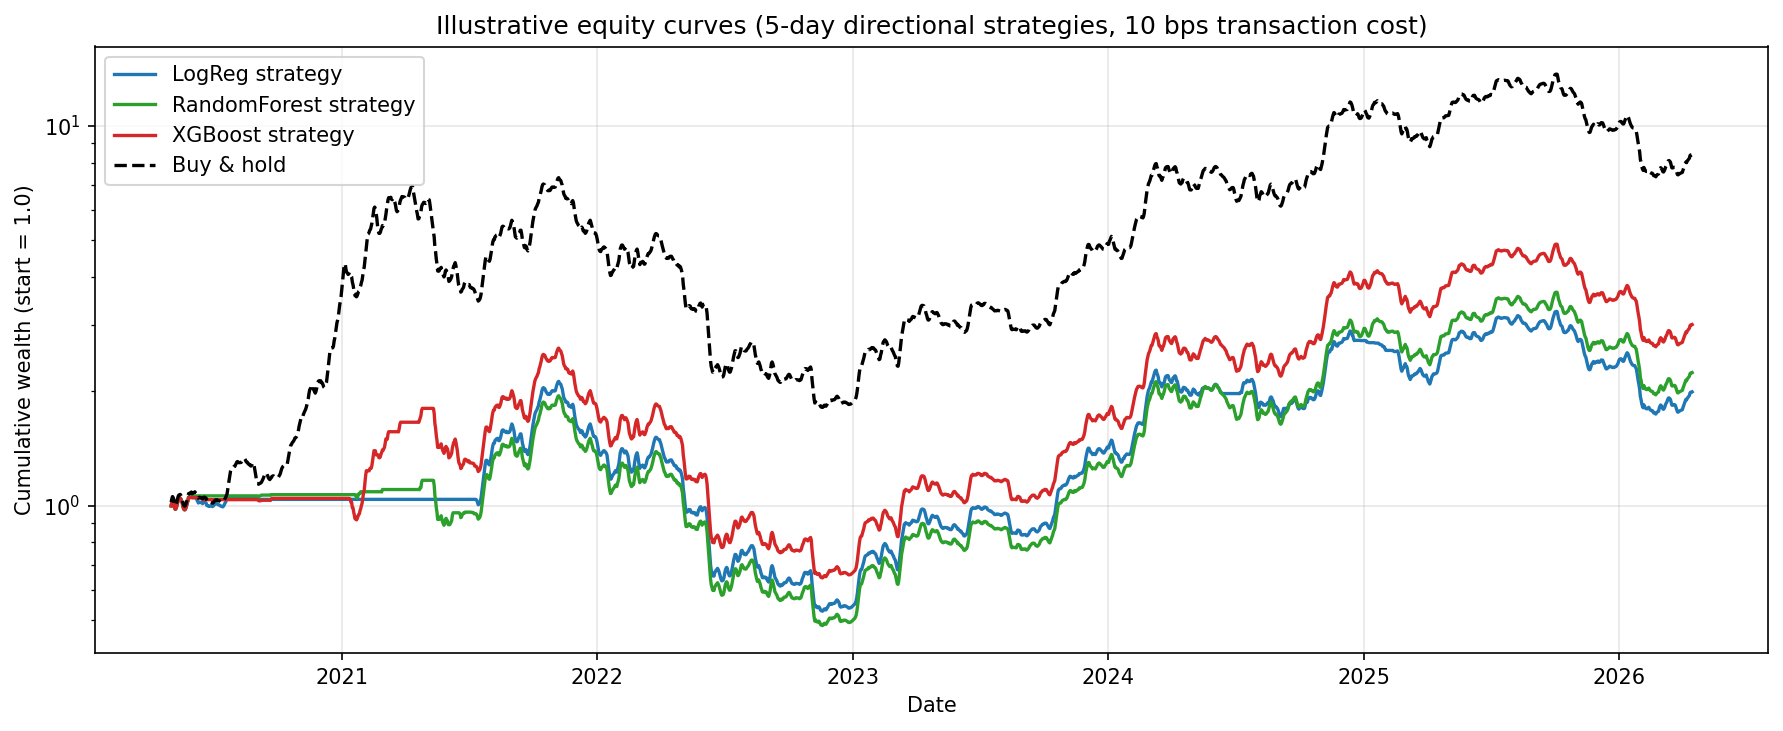
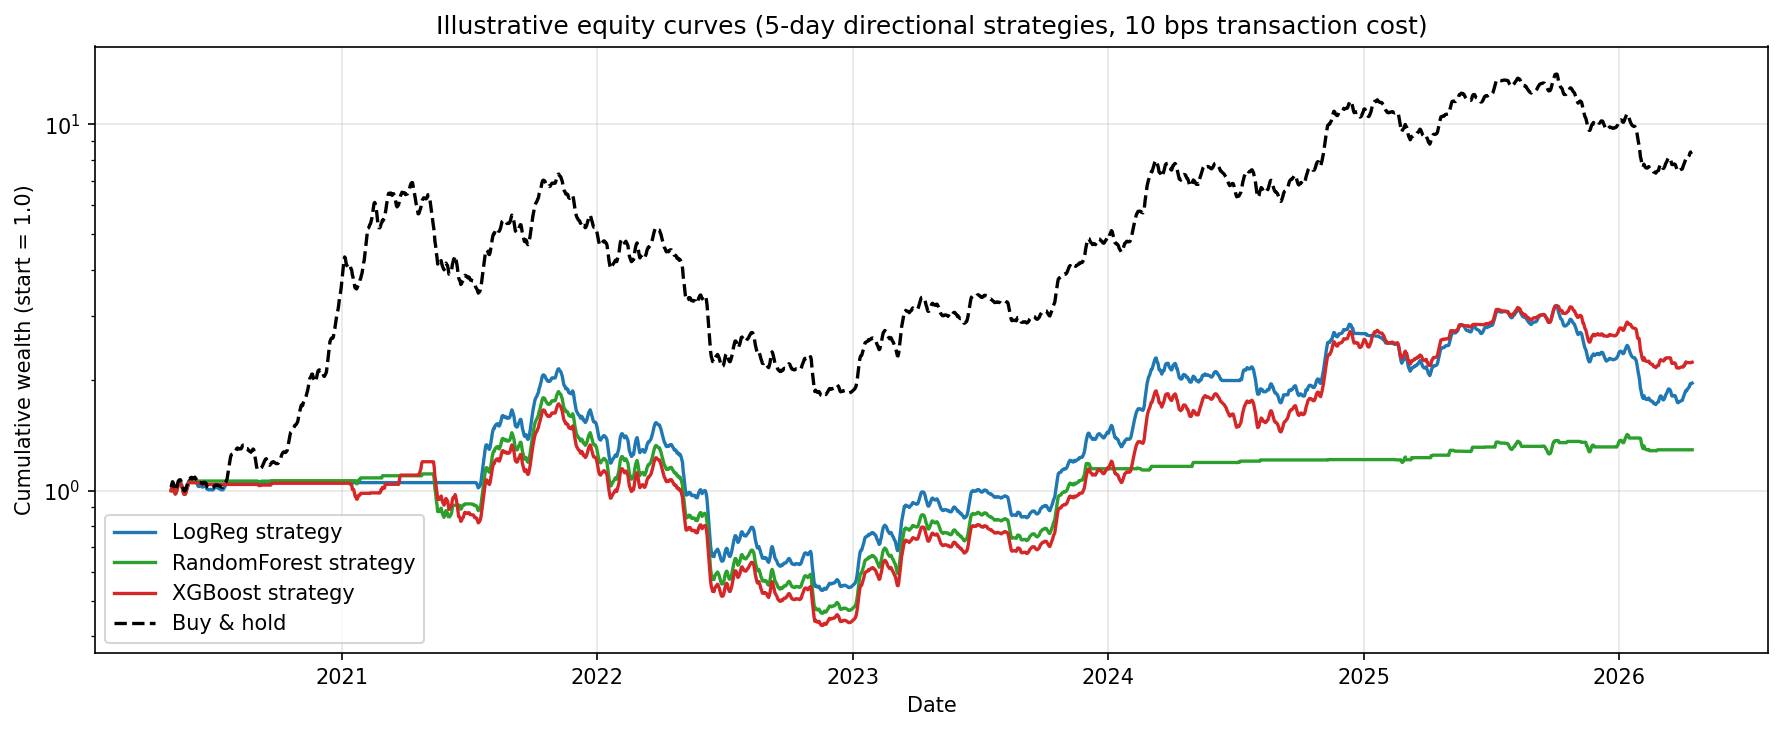
Fix threshold tuning data snooping: per-fold internal-validation selection

diff --git a/evaluation/calibration.py b/evaluation/calibration.py
@@ -11,14 +11,19 @@ walk_forward_evaluate (see evaluation/walk_forward.py):
        approximates monotonic-but-flexible mapping from raw probabilities
        to actual frequencies of the positive class.
 
-    2. Decision-threshold tuning. The default 0.5 threshold is rarely
-       optimal in finance — Jansen (Ch. 6) recommends treating it as a
-       hyperparameter optimised on validation data. We sweep thresholds in
-       [0.30, 0.70] in steps of 0.01 and pick the one maximising F1 on
-       each fold's validation half.
+    2. Decision-threshold tuning WITHOUT test-set leakage. Inside every
+       walk-forward fold we carve an internal validation slice from the last
+       INNER_VAL_FRACTION (20%) of that fold's TRAINING window, fit a separate
+       model on the remaining 80%, and pick the threshold in [0.30, 0.70]
+       (step 0.01) that maximises F1 on that internal validation slice only.
+       The selected threshold is then applied to the fold's TEST predictions.
+       Per-fold test predictions are aggregated before scoring; the test set
+       is NEVER used to choose the threshold. The `threshold` column in the
+       summary holds the mean of the five per-fold thresholds.
 
 Output:
     evaluation/results/calibration_summary.csv   — before/after metrics per model
+    evaluation/results/calibration_thresholds_per_fold.csv — per-fold thresholds (raw & cal)
     evaluation/figures/figure_calibration_curves.png   — reliability diagrams
     evaluation/figures/figure_threshold_tuning.png     — F1 vs threshold curves
 
@@ -59,6 +64,7 @@ FEATURE_COLUMNS = [
 
 N_SPLITS = 5
 THRESHOLDS = np.linspace(0.30, 0.70, 41)  # step 0.01
+INNER_VAL_FRACTION = 0.2  # last 20% of each fold's TRAIN window = internal validation
 
 # Models to calibrate. Persistence baselines are skipped — they return
 # degenerate pseudo-probabilities and calibration would be meaningless.
@@ -75,43 +81,82 @@ def _calibrated_walk_forward(
     X: pd.DataFrame,
     y: pd.Series,
     n_splits: int = N_SPLITS,
+    inner_val_fraction: float = INNER_VAL_FRACTION,
 ):
     """
-    Run walk-forward evaluation with isotonic calibration applied INSIDE
-    each fold. Returns three concatenated arrays:
-        y_true_all      ground truth, in chronological order
-        proba_raw_all   probabilities from the un-calibrated base estimator
-        proba_cal_all   probabilities from the isotonic-calibrated wrapper
+    Walk-forward with isotonic calibration applied INSIDE each fold, plus
+    per-fold decision-threshold selection that NEVER touches the test set.
+
+    Per fold:
+      1. Fit raw and isotonic-calibrated models on the FULL training window and
+         score the test set -> proba_raw / proba_cal (the out-of-fold
+         probabilities used everywhere downstream; unchanged from before).
+      2. Carve an internal validation slice = last `inner_val_fraction` of the
+         TRAIN rows (chronological). Fit a SEPARATE model on the earlier part,
+         score the validation slice, and pick the F1-optimal threshold there.
+      3. Apply that fold's validation threshold to this fold's TEST scores.
+
+    Returns a dict of chronologically-concatenated TEST arrays plus the list of
+    per-fold thresholds (raw and calibrated):
+        y_true, proba_raw, proba_cal, y_pred_raw_tuned, y_pred_cal_tuned,
+        thr_raw_per_fold, thr_cal_per_fold.
     """
     splitter = TimeSeriesSplit(n_splits=n_splits)
 
     y_true_parts, proba_raw_parts, proba_cal_parts = [], [], []
+    pred_raw_tuned_parts, pred_cal_tuned_parts = [], []
+    thr_raw_per_fold, thr_cal_per_fold = [], []
 
     for fold, (train_idx, test_idx) in enumerate(splitter.split(X), start=1):
         X_tr, X_te = X.iloc[train_idx], X.iloc[test_idx]
         y_tr, y_te = y.iloc[train_idx], y.iloc[test_idx]
 
-        # Raw model
+        # (1) Models trained on the FULL training window -> test scores.
+        # IMPORTANT: pass a fresh clone to the calibrator, otherwise
+        # CalibratedClassifierCV refits state of an already-fitted pipeline.
         raw_model = base_factory()
         raw_model.fit(X_tr, y_tr)
         proba_raw = raw_model.predict_proba(X_te)[:, 1]
 
-        # Calibrated model — IMPORTANT: pass a fresh clone, otherwise
-        # CalibratedClassifierCV refits state of an already-fitted pipeline.
         cal_base = base_factory()
         cal_model = CalibratedClassifierCV(cal_base, method="isotonic", cv=3)
         cal_model.fit(X_tr, y_tr)
         proba_cal = cal_model.predict_proba(X_te)[:, 1]
 
+        # (2) Internal validation = last fraction of TRAIN only (chronological).
+        # Earliest rows train the threshold-selection model, latest rows are the
+        # held-out validation slice on which the threshold is chosen.
+        n_tr = len(X_tr)
+        cut = int(round(n_tr * (1.0 - inner_val_fraction)))
+        X_in_tr, X_in_val = X_tr.iloc[:cut], X_tr.iloc[cut:]
+        y_in_tr, y_in_val = y_tr.iloc[:cut], y_tr.iloc[cut:]
+
+        thr_raw = _tune_threshold_on_validation(
+            base_factory, X_in_tr, y_in_tr, X_in_val, y_in_val, calibrated=False
+        )
+        thr_cal = _tune_threshold_on_validation(
+            base_factory, X_in_tr, y_in_tr, X_in_val, y_in_val, calibrated=True
+        )
+
+        # (3) Apply the validation-selected thresholds to this fold's TEST scores.
+        pred_raw_tuned_parts.append((proba_raw > thr_raw).astype(int))
+        pred_cal_tuned_parts.append((proba_cal > thr_cal).astype(int))
+        thr_raw_per_fold.append(thr_raw)
+        thr_cal_per_fold.append(thr_cal)
+
         y_true_parts.append(y_te.values)
         proba_raw_parts.append(proba_raw)
         proba_cal_parts.append(proba_cal)
 
-    return (
-        np.concatenate(y_true_parts),
-        np.concatenate(proba_raw_parts),
-        np.concatenate(proba_cal_parts),
-    )
+    return {
+        "y_true": np.concatenate(y_true_parts),
+        "proba_raw": np.concatenate(proba_raw_parts),
+        "proba_cal": np.concatenate(proba_cal_parts),
+        "y_pred_raw_tuned": np.concatenate(pred_raw_tuned_parts),
+        "y_pred_cal_tuned": np.concatenate(pred_cal_tuned_parts),
+        "thr_raw_per_fold": thr_raw_per_fold,
+        "thr_cal_per_fold": thr_cal_per_fold,
+    }
 
 
 def _tune_threshold(y_true: np.ndarray, y_proba: np.ndarray) -> tuple[float, float]:
@@ -130,6 +175,46 @@ def _safe_metrics(y_true, y_proba, threshold) -> dict:
     proba_clipped = np.clip(y_proba, 1e-7, 1 - 1e-7)
     return {
         "threshold": threshold,
+        "f1": f1_score(y_true, y_pred, zero_division=0),
+        "roc_auc": roc_auc_score(y_true, y_proba),
+        "log_loss": log_loss(y_true, proba_clipped, labels=[0, 1]),
+    }
+
+
+def _tune_threshold_on_validation(
+    base_factory, X_in_tr, y_in_tr, X_in_val, y_in_val, calibrated: bool,
+) -> float:
+    """
+    Select a threshold WITHOUT seeing the test set: fit a model on the
+    inner-training rows only, score the inner-validation rows, and return the
+    F1-optimal threshold in THRESHOLDS. For the calibrated variant the same
+    isotonic wrapper as the main pipeline is used, so the threshold is chosen
+    on calibrated scores. Falls back to 0.5 when the validation slice is too
+    small or single-class (an F1-optimal threshold would be meaningless).
+    """
+    y_val = np.asarray(y_in_val)
+    if len(y_val) < 10 or len(np.unique(y_val)) < 2:
+        return 0.5
+    model = base_factory()
+    if calibrated:
+        model = CalibratedClassifierCV(model, method="isotonic", cv=3)
+    model.fit(X_in_tr, y_in_tr)
+    proba_val = model.predict_proba(X_in_val)[:, 1]
+    thr, _ = _tune_threshold(y_val, proba_val)
+    return thr
+
+
+def _tuned_metrics(y_true, y_proba, y_pred, reported_threshold) -> dict:
+    """
+    Headline metrics for a tuned variant. `y_pred` was produced per fold using
+    each fold's validation-selected threshold; `reported_threshold` is the mean
+    of those per-fold thresholds, stored for the summary only. ROC-AUC and
+    log-loss are threshold-independent, hence identical to the default variant.
+    Keys match _safe_metrics so the CSV schema is unchanged.
+    """
+    proba_clipped = np.clip(y_proba, 1e-7, 1 - 1e-7)
+    return {
+        "threshold": reported_threshold,
         "f1": f1_score(y_true, y_pred, zero_division=0),
         "roc_auc": roc_auc_score(y_true, y_proba),
         "log_loss": log_loss(y_true, proba_clipped, labels=[0, 1]),
@@ -159,17 +244,24 @@ def main() -> None:
         print(f"Calibration + threshold tuning: {name}")
         print("=" * 72)
 
-        y_true, proba_raw, proba_cal = _calibrated_walk_forward(factory, X, y)
+        wf = _calibrated_walk_forward(factory, X, y)
+        y_true = wf["y_true"]
+        proba_raw = wf["proba_raw"]
+        proba_cal = wf["proba_cal"]
 
-        # Default threshold (0.5)
+        # Default threshold (0.5) — unchanged baseline.
         m_raw_default = _safe_metrics(y_true, proba_raw, threshold=0.5)
         m_cal_default = _safe_metrics(y_true, proba_cal, threshold=0.5)
 
-        # Tuned threshold (per probability source)
-        thr_raw, _ = _tune_threshold(y_true, proba_raw)
-        thr_cal, _ = _tune_threshold(y_true, proba_cal)
-        m_raw_tuned = _safe_metrics(y_true, proba_raw, threshold=thr_raw)
-        m_cal_tuned = _safe_metrics(y_true, proba_cal, threshold=thr_cal)
+        # Tuned: thresholds were chosen per fold on that fold's internal
+        # validation slice (never the test set) and already applied to the
+        # fold's test predictions inside _calibrated_walk_forward. We report the
+        # mean per-fold threshold; F1 is computed on the aggregated test
+        # predictions. ROC-AUC / log-loss are threshold-free -> equal default.
+        thr_raw = round(float(np.mean(wf["thr_raw_per_fold"])), 3)
+        thr_cal = round(float(np.mean(wf["thr_cal_per_fold"])), 3)
+        m_raw_tuned = _tuned_metrics(y_true, proba_raw, wf["y_pred_raw_tuned"], thr_raw)
+        m_cal_tuned = _tuned_metrics(y_true, proba_cal, wf["y_pred_cal_tuned"], thr_cal)
 
         # Console output
         print(f"  RAW (uncalibrated):")
@@ -186,6 +278,11 @@ def main() -> None:
         print(f"    tuned   thr={thr_cal:.2f}  F1={m_cal_tuned['f1']:.4f}  "
               f"AUC={m_cal_tuned['roc_auc']:.4f}  "
               f"logloss={m_cal_tuned['log_loss']:.4f}")
+        print(
+            f"    per-fold thresholds  "
+            f"raw={[round(t, 3) for t in wf['thr_raw_per_fold']]}  "
+            f"cal={[round(t, 3) for t in wf['thr_cal_per_fold']]}"
+        )
 
         for label, m in (
             ("raw_default", m_raw_default),
@@ -201,6 +298,8 @@ def main() -> None:
             "proba_cal": proba_cal,
             "thr_raw": thr_raw,
             "thr_cal": thr_cal,
+            "thr_raw_per_fold": wf["thr_raw_per_fold"],
+            "thr_cal_per_fold": wf["thr_cal_per_fold"],
         }
 
     # -------------------------------------------------------------------------
@@ -210,6 +309,22 @@ def main() -> None:
     summary_df.to_csv(summary_path, index=False)
     print(f"\nsaved -> {summary_path}")
     print(summary_df.round(4).to_string(index=False))
+
+    # -------------------------------------------------------------------------
+    # Per-fold thresholds (transparency). Each threshold was selected on that
+    # fold's internal validation split, never the test set. One row per
+    # (model, source, fold); does not alter the calibration_summary schema.
+    per_fold_rows: list[dict] = []
+    for name, d in calibration_data.items():
+        for fold_i, t in enumerate(d["thr_raw_per_fold"], start=1):
+            per_fold_rows.append({"model": name, "source": "raw",
+                                  "fold": fold_i, "threshold": round(float(t), 2)})
+        for fold_i, t in enumerate(d["thr_cal_per_fold"], start=1):
+            per_fold_rows.append({"model": name, "source": "cal",
+                                  "fold": fold_i, "threshold": round(float(t), 2)})
+    per_fold_path = RESULTS_DIR / "calibration_thresholds_per_fold.csv"
+    pd.DataFrame(per_fold_rows).to_csv(per_fold_path, index=False)
+    print(f"saved -> {per_fold_path}")
 
     # -------------------------------------------------------------------------
     # Figure: reliability diagrams (calibration curves) before/after
@@ -261,7 +376,11 @@ def main() -> None:
         ax.grid(True, alpha=0.3)
         ax.legend(fontsize=8)
     axes[0].set_ylabel("F1")
-    fig.suptitle("F1 vs decision threshold (out-of-fold predictions)", y=1.02)
+    fig.suptitle(
+        "F1 vs decision threshold on out-of-fold TEST predictions (diagnostic);\n"
+        "dotted lines = mean per-fold threshold selected on internal validation",
+        y=1.04,
+    )
     fig.tight_layout()
     fig.savefig(FIGURES_DIR / "figure_threshold_tuning.png",
                 dpi=150, bbox_inches="tight")

diff --git a/README.md b/README.md
@@ -16,8 +16,9 @@ analysis, and full experiment tracking via MLflow.
   Logistic Regression, Random Forest, XGBoost.
 - **Walk-forward validation** with `TimeSeriesSplit(n_splits=5)` — no information leakage
   from the future.
-- **Probability calibration** (isotonic) and **decision-threshold tuning** — boosts F1
-  by 25-62% over the default 0.5 threshold.
+- **Probability calibration** (isotonic) and **decision-threshold tuning** — boosts
+  calibrated F1 by ~39-57% over the default 0.5 threshold (threshold selected per fold
+  on an internal validation split, never the test set).
 - **Regime-stability analysis** across 5 manually defined market phases
   (pre-2020, bull 2020-21, bear 2022, recovery 2023, bull 2024+).
 - **Three-class classification** extension (strong-down / weak-neutral / strong-up).
@@ -33,7 +34,7 @@ analysis, and full experiment tracking via MLflow.
 | **RandomForest** | **0.50** | 0.41 | **0.55** | **0.72** |
 | XGBoost | 0.50 | 0.38 | 0.54 | 1.01 |
 
-After threshold tuning, F1 of all ML models jumps to **0.54-0.68**.
+After threshold tuning, calibrated F1 of the ML models reaches **0.61-0.63**.
 
 ## Project structure
 
@@ -164,9 +165,11 @@ for substantially better log-loss — typically 24-38% reduction across models.
 
 ### Decision-threshold tuning
 
-The default 0.5 threshold is rarely optimal in finance. We sweep thresholds
-in `[0.30, 0.70]` on validation data and pick the one that maximises F1.
-This single step improves F1 by **25-62%** across all three ML models.
+The default 0.5 threshold is rarely optimal in finance. Inside each walk-forward
+fold we sweep thresholds in `[0.30, 0.70]` on an internal validation split carved
+from the last 20% of that fold's training window — never the test set — and pick
+the one that maximises F1. This step improves calibrated F1 by **~39-57%** across
+the three ML models.
 
 ### Regime-stability analysis
 
